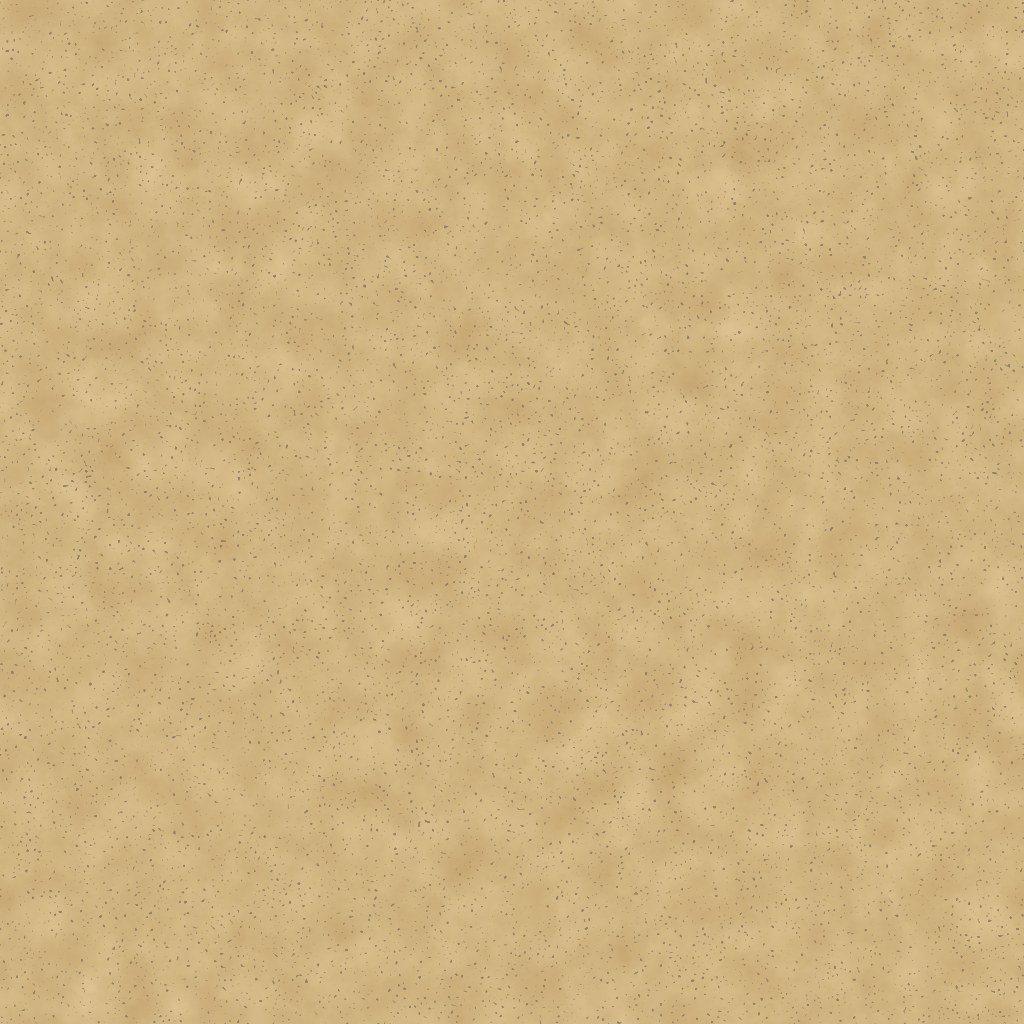
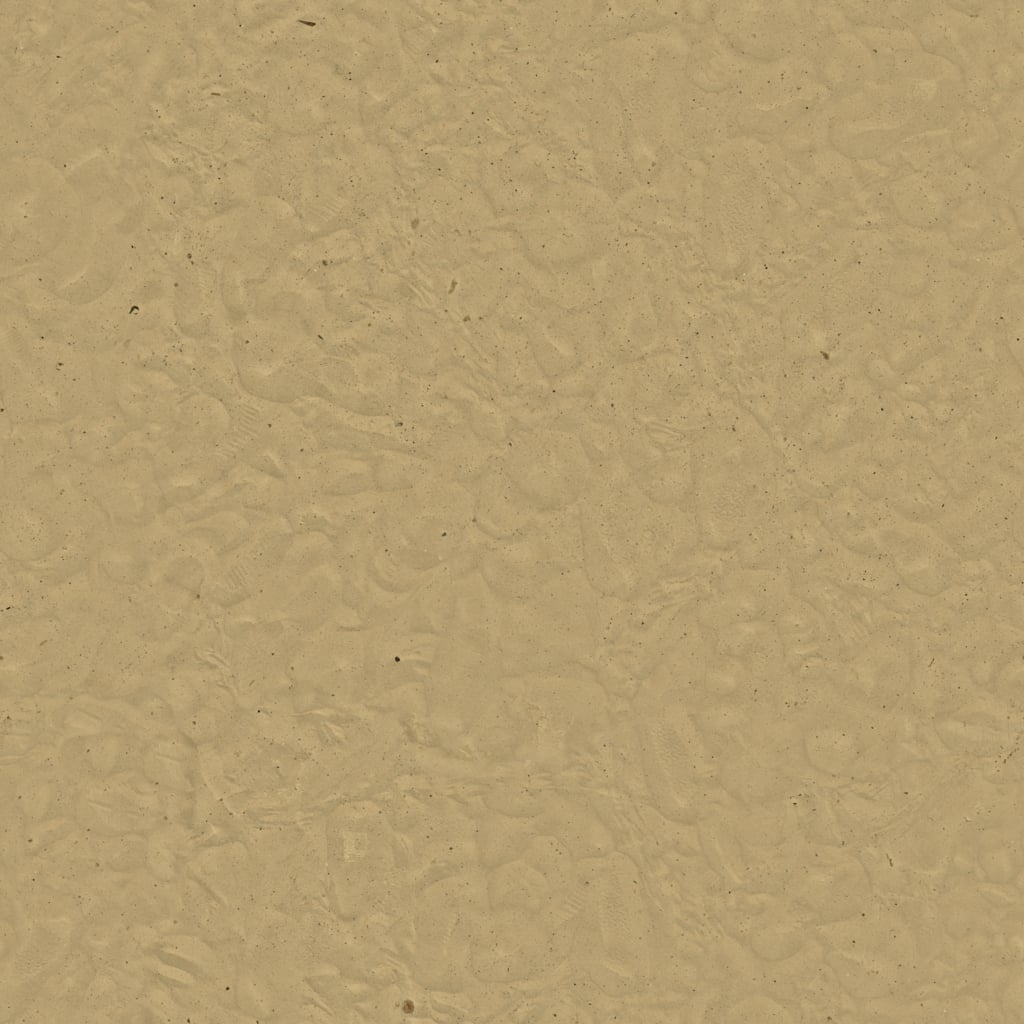
Chão com texturas realistas (fotos escaneadas do ambientCG, CC0)
Grama, terra, areia, rocha, calçamento, tábuas, vidro negro e chão de floresta
trocados por materiais CC0 do ambientCG que repetem sem emenda e trazem o
próprio relevo (normal map). Remove o gerador procedural antigo.

diff --git a/public/creditos.html b/public/creditos.html
@@ -24,7 +24,7 @@
 <h2>Céus e texturas</h2>
 <table><tr><th>Obra</th><th>Autor</th><th>Licença</th><th>Usado em</th></tr>
 <tr><td>HDRIs <i>Quarry 01</i>, <i>Venice Sunset</i> e <i>Moonless Golf</i> (1k e 2k)</td><td>Greg Zaal e equipe — <a href="https://polyhaven.com">Poly Haven</a> (cópias do repositório do three.js)</td><td><a href="https://creativecommons.org/publicdomain/zero/1.0/">CC0 1.0</a></td><td>Céu e iluminação do dia, da Conjunção e das noites</td></tr>
-<tr><td>Texturas do chão (grama, terra, areia, rocha, calçamento, tábuas, vidro negro, chão de floresta)</td><td>Feitas para este projeto (gerador em <code>public/texturas/gerar_texturas.py</code>)</td><td>Livre para o projeto</td><td>Relevo do tabuleiro</td></tr></table>
+<tr><td>Texturas do chão (grama, terra, areia, rocha, calçamento, tábuas, vidro negro, chão de floresta)</td><td><a href="https://ambientcg.com">ambientCG</a> (Grass004, Ground106, Ground080, Rock058, PavingStones142, Planks037A, Rock035, ScatteredLeaves009), reduzidas para 1024 px</td><td>CC0 1.0</td><td>Relevo do tabuleiro</td></tr></table>
 <h2>Bibliotecas e fontes</h2>
 <table><tr><th>Obra</th><th>Autor</th><th>Licença</th></tr>
 <tr><td><a href="https://threejs.org">three.js</a> (r170) e seus complementos (OrbitControls, GLTFLoader, SkeletonUtils, BufferGeometryUtils, RoomEnvironment, RGBELoader e pós-processamento: EffectComposer, GTAO, Bloom, OutputPass)</td><td>three.js authors</td><td><a href="https://github.com/mrdoob/three.js/blob/dev/LICENSE">MIT</a></td></tr>

diff --git a/README.md b/README.md
@@ -75,4 +75,4 @@ Abra <http://localhost:8787>.
 
 ## Créditos
 
-Modelos 3D: personagens, roupas, cabelos, animações, armas e criaturas de **Quaternius** ([quaternius.com](https://quaternius.com)) — Universal Base Characters, Modular Character Outfits, Universal Animation Library, Modular Weapons, Ultimate Monsters, Ultimate Stylized Nature (árvores e rochas); armas, esqueletos e cenário do **KayKit** de Kay Lousberg ([kaylousberg.com](https://www.kaylousberg.com)). Sons de **Kenney** ([kenney.nl](https://kenney.nl)) — Sci-Fi Sounds, Impact Sounds e RPG Audio (em `public/sons/`). Tudo licença CC0 1.0. Bibliotecas: three.js (MIT). Fontes: Cinzel e Alegreya Sans (OFL). Lista completa em `public/creditos.html` (também no site, em /creditos.html), e os textos das licenças em `public/modelos/`.
+Modelos 3D: personagens, roupas, cabelos, animações, armas e criaturas de **Quaternius** ([quaternius.com](https://quaternius.com)) — Universal Base Characters, Modular Character Outfits, Universal Animation Library, Modular Weapons, Ultimate Monsters, Ultimate Stylized Nature (árvores e rochas); armas, esqueletos e cenário do **KayKit** de Kay Lousberg ([kaylousberg.com](https://www.kaylousberg.com)). Texturas do chão de **ambientCG** ([ambientcg.com](https://ambientcg.com)). Sons de **Kenney** ([kenney.nl](https://kenney.nl)) — Sci-Fi Sounds, Impact Sounds e RPG Audio (em `public/sons/`). Tudo licença CC0 1.0. Bibliotecas: three.js (MIT). Fontes: Cinzel e Alegreya Sans (OFL). Lista completa em `public/creditos.html` (também no site, em /creditos.html), e os textos das licenças em `public/modelos/`.
